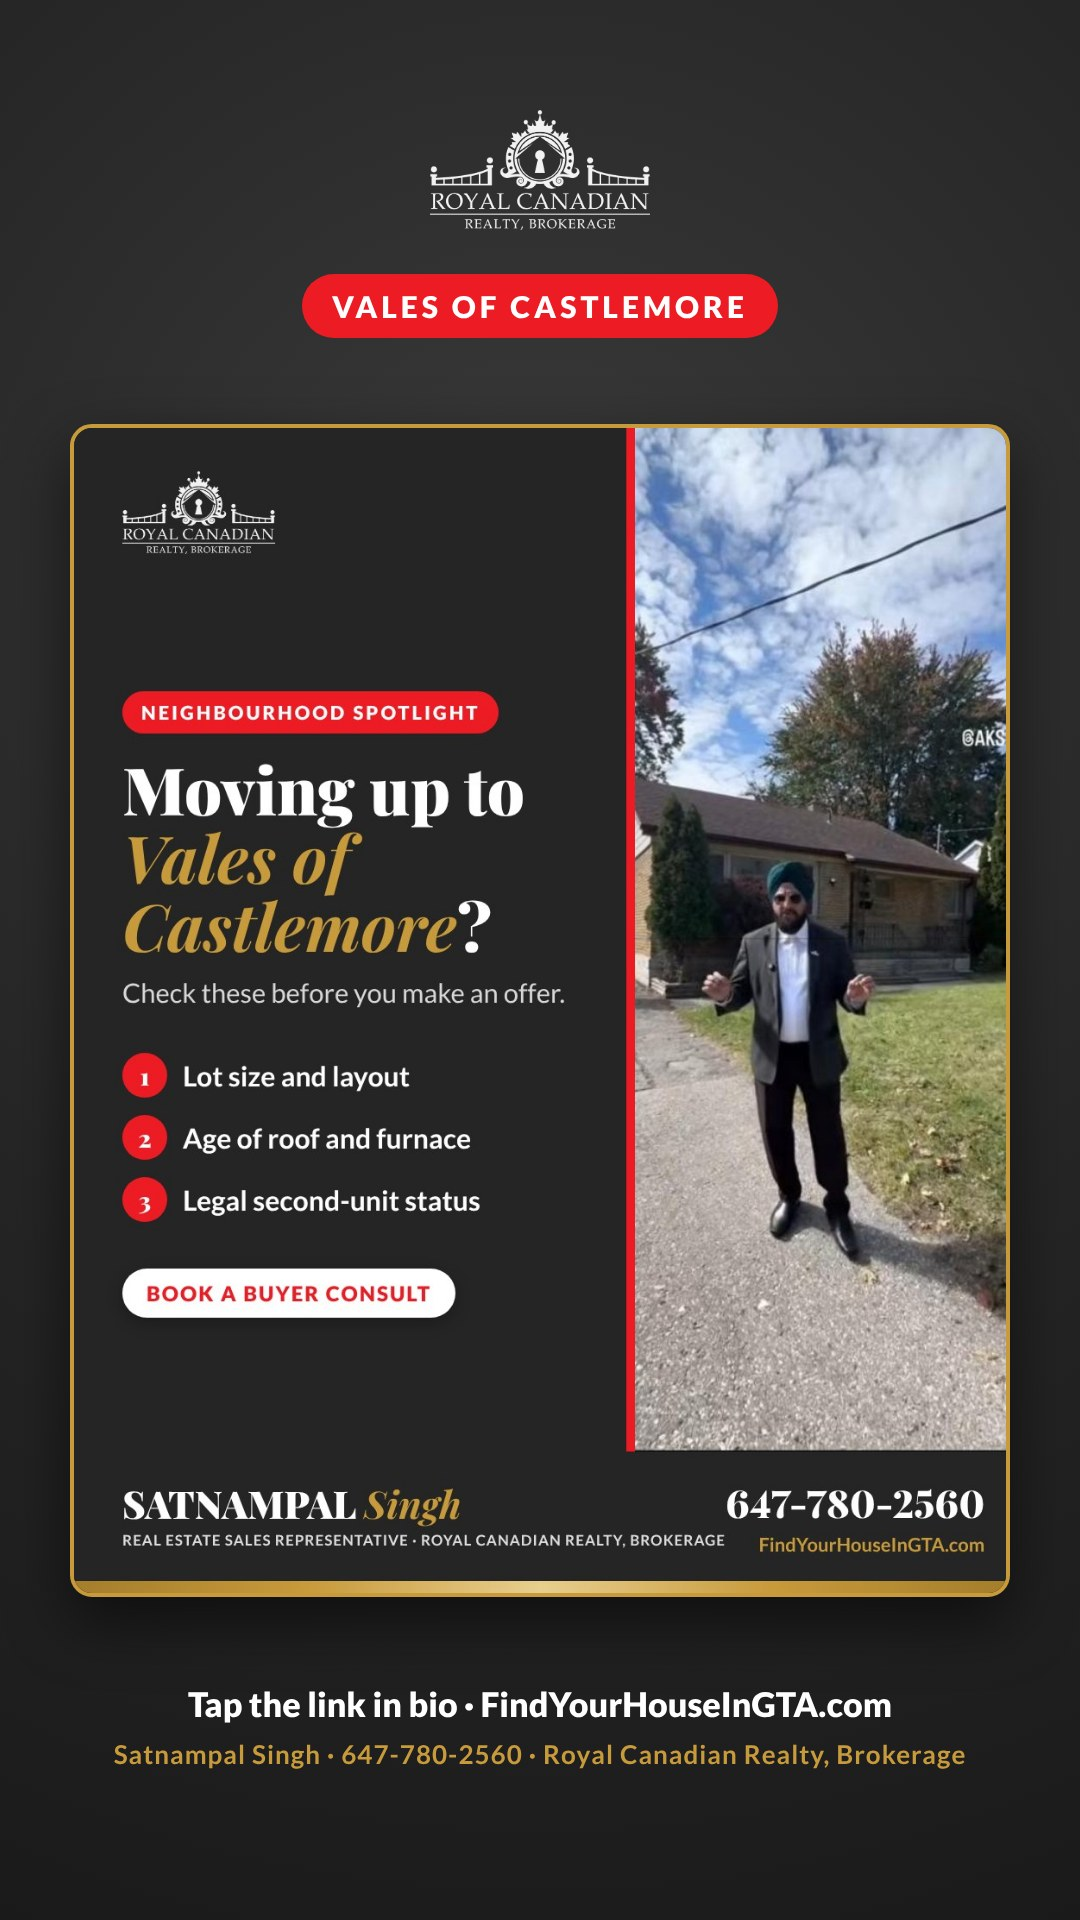
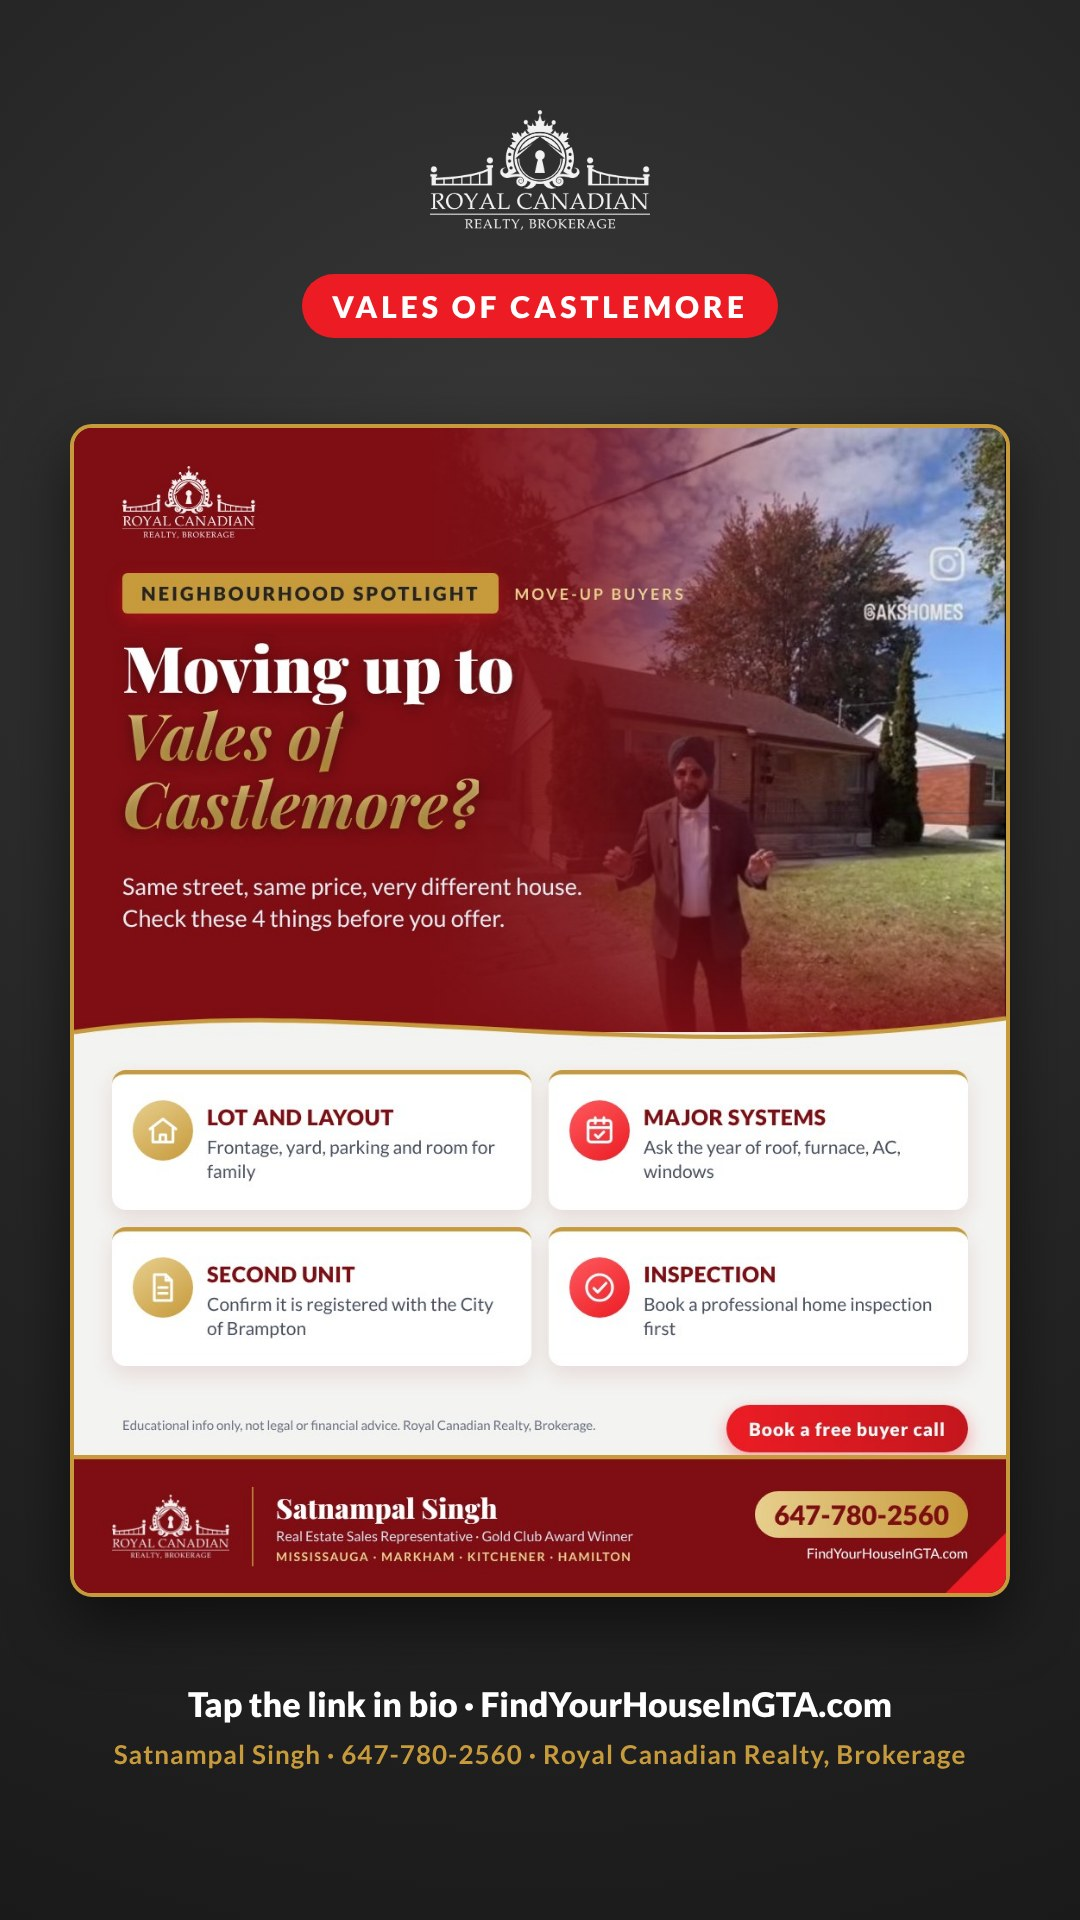
Infographic: colour themes (navy/charcoal/red), landscape sub fix; 2026-11-06 redone as red infographic

diff --git a/tools/make_infographic.py b/tools/make_infographic.py
@@ -12,6 +12,7 @@ JSON keys:
   cta        gold pill text, e.g. "Book a free buyer call"
   coinTop, subTop  optional pixel positions for the coin and the sub line
   size       optional headline font size (default 74)
+  theme      "navy" (default) | "charcoal" | "red" (deep brand red with a gold ribbon): rotate daily
   format     "portrait" (1080x1350, default) or "landscape" (1200x900, for GBP)
 Footer (fixed): official Royal Canadian Realty white logo, his name, title, phone, email, website, offices.
 Never put other people, stock or AI images in "photo"; never recolour or redraw the logo.
@@ -28,6 +29,10 @@ land = d.get("format") == "landscape"
 W, H = (1200, 900) if land else (1080, 1350)
 
 NAVY, NAVY2, GOLD, GOLD_L, RED, INK = "#0E1B36", "#16294F", "#C79A3B", "#E8CF8E", "#ED1C24", "#252525"
+# Colour theme for the top band, card titles and footer ("theme" key): navy (default) | charcoal | red
+THEMES = {"navy": ("#0E1B36", "14,27,54"), "charcoal": ("#252525", "37,37,37"), "red": ("#7E0E14", "126,14,20")}
+NAVY, RGB = THEMES.get(d.get("theme", "navy"), THEMES["navy"])
+RIB_BG, RIB_FG = (GOLD, INK) if d.get("theme") == "red" else (RED, "#fff")
 ic = {
  "home": '<path d="M3 11l9-7 9 7"/><path d="M5 10v10h14V10"/><path d="M10 20v-5h4v5"/>',
  "lock": '<rect x="5" y="10" width="14" height="10" rx="2"/><path d="M8 10V7a4 4 0 018 0v3"/><circle cx="12" cy="15" r="1.4"/>',
@@ -61,16 +66,16 @@ page = f"""<html><head><style>
 body{{width:{W}px;height:{H}px;overflow:hidden;font-family:LA;background:#F3F3F1;position:relative}}
 .top{{position:absolute;left:0;top:0;width:{W}px;height:{TOP}px;overflow:hidden;background:{NAVY}}}
 .top .ph{{position:absolute;right:0;top:0;width:{int(W*0.62)}px;height:100%;background:url(file://{ROOT}/assets/photos/{photo}) {d.get("photoPos","50% 35%")}/cover}}
-.top .fade{{position:absolute;inset:0;background:linear-gradient(90deg,{NAVY} 0%,{NAVY} 38%,rgba(14,27,54,.82) 55%,rgba(14,27,54,.15) 82%,rgba(14,27,54,0) 100%)}}
-.top .fade2{{position:absolute;left:0;right:0;bottom:0;height:160px;background:linear-gradient(0deg,rgba(14,27,54,.85),rgba(14,27,54,0))}}
+.top .fade{{position:absolute;inset:0;background:linear-gradient(90deg,{NAVY} 0%,{NAVY} 38%,rgba({RGB},.82) 55%,rgba({RGB},.15) 82%,rgba({RGB},0) 100%)}}
+.top .fade2{{position:absolute;left:0;right:0;bottom:0;height:160px;background:linear-gradient(0deg,rgba({RGB},.85),rgba({RGB},0))}}
 .swoosh{{position:absolute;left:0;top:{TOP-46}px;width:{W}px;height:90px}}
 .logo{{position:absolute;left:56px;top:44px;height:{70 if land else 84}px}}
 .rib{{position:absolute;left:56px;top:{150 if land else 168}px;display:flex;align-items:center;gap:18px}}
-.rib b{{background:{RED};color:#fff;font-weight:900;letter-spacing:3px;font-size:22px;padding:10px 22px;border-radius:6px;box-shadow:0 6px 18px rgba(237,28,36,.35)}}
+.rib b{{background:{RIB_BG};color:{RIB_FG};font-weight:900;letter-spacing:3px;font-size:22px;padding:10px 22px;border-radius:6px;box-shadow:0 6px 18px rgba(237,28,36,.35)}}
 .rib span{{color:{GOLD_L};font-weight:700;letter-spacing:3px;font-size:18px}}
 h1{{position:absolute;left:56px;top:{200 if land else 238}px;width:{620 if land else 640}px;color:#fff;font-family:PF;font-weight:900;font-size:{d.get("size",66 if land else 74)}px;line-height:1.06;text-shadow:0 3px 16px rgba(0,0,0,.35)}}
 h1 em{{font-style:italic;color:{GOLD};background:linear-gradient(180deg,{GOLD_L},{GOLD});-webkit-background-clip:text;color:transparent}}
-.sub{{position:absolute;left:56px;top:{d.get("subTop", 450 if land else 512)}px;width:{600 if land else 560}px;color:#E9ECF3;font-size:{24 if land else 27}px;line-height:1.38}}
+.sub{{position:absolute;left:56px;top:{d.get("subTop", 352 if land else 512)}px;width:{600 if land else 560}px;color:#E9ECF3;font-size:{24 if land else 27}px;line-height:1.38}}
 .coin{{position:absolute;transform:scale({0.8 if land else 1});transform-origin:top right;right:{40 if land else 44}px;top:{d.get("coinTop", 250 if land else 300)}px;width:250px;height:250px;border-radius:50%;
   background:radial-gradient(circle at 35% 30%,#F6E7B8 0%,{GOLD_L} 30%,{GOLD} 70%,#9A7429 100%);box-shadow:0 18px 40px rgba(0,0,0,.45);display:flex;align-items:center;justify-content:center}}
 .ring{{width:212px;height:212px;border-radius:50%;border:3px solid rgba(255,255,255,.65);display:flex;flex-direction:column;align-items:center;justify-content:center;text-align:center}}
@@ -78,7 +83,7 @@ h1 em{{font-style:italic;color:{GOLD};background:linear-gradient(180deg,{GOLD_L}
 .ring b{{font-weight:900;font-size:50px;color:{RED};line-height:1.05;margin:4px 0}}
 .ring span{{font-weight:700;font-size:16px;color:{NAVY};width:170px;line-height:1.2}}
 .grid{{position:absolute;left:44px;right:44px;top:{TOP+44}px;display:grid;grid-template-columns:{"1fr 1fr 1fr 1fr" if land else "1fr 1fr"};gap:{16 if land else 20}px}}
-.card{{background:#fff;border-radius:16px;padding:{"18px 14px" if land else "30px 24px"};display:flex;gap:{12 if land else 16}px;align-items:flex-start;box-shadow:0 10px 26px rgba(14,27,54,.10);border-top:5px solid {GOLD}}}
+.card{{background:#fff;border-radius:16px;padding:{"18px 14px" if land else "30px 24px"};display:flex;gap:{12 if land else 16}px;align-items:flex-start;box-shadow:0 10px 26px rgba({RGB},.10);border-top:5px solid {GOLD}}}
 .ci{{flex:none;width:{56 if land else 70}px;height:{56 if land else 70}px;border-radius:50%;background:linear-gradient(145deg,{GOLD_L},{GOLD});display:flex;align-items:center;justify-content:center}}
 .ci.r{{background:linear-gradient(145deg,#FF5A5F,{RED})}}
 .ct{{font-weight:900;color:{NAVY};font-size:{16 if land else 25}px;letter-spacing:.5px;text-transform:uppercase;margin:4px 0 6px}}

diff --git a/posts/log.md b/posts/log.md
@@ -6,4 +6,4 @@ One line per post: date | theme | headline | GBP/FB/IG/TikTok status
 2026-11-03 | Brampton neighbourhood spotlight (Sandringham-Wellington) | Starter home in Sandringham? | https://www.findyourhouseingta.com/ | scheduled 12:00 (run started 11:49, after the 10:00 slot)
 2026-11-04 | GTA market update (TRREB October 2026) | Buyers have the edge (stats layout) | https://www.findyourhouseingta.com/blog.php | scheduled 10:00
 2026-11-05 | Mortgage education (Ontario land transfer tax + first-time buyer refund) | first-time buyers | The closing cost buyers forget | https://satnampalsingh-social-images.github.io/Social-Images/blog/ | layout:infographic (swapped from classic at 09:10 on request) | photo:luxury-home.jpg | feed + IG/FB story scheduled 10:00
-2026-11-06 | Neighbourhood Spotlight | move-up buyers / growing families | Moving up to Vales of Castlemore? | https://www.findyourhouseingta.com/blog.php | layout:split (final, chosen by Satnampal after trying photo layout) | photo:listing-facing.jpg | area:Vales of Castlemore | feed + IG/FB story scheduled 10:00 - ALL FAILED at 10:00 and again at 11:30: Metricool "You have reached your Metricool account limit."
+2026-11-06 | Neighbourhood Spotlight | move-up buyers / growing families | Moving up to Vales of Castlemore? | https://www.findyourhouseingta.com/blog.php | layout:infographic (final, Satnampal asked for this style daily) | colour:red | photo:listing-facing.jpg | area:Vales of Castlemore | feed + IG/FB story scheduled 10:00 - ALL FAILED at 10:00 and again at 11:30: Metricool "You have reached your Metricool account limit."
